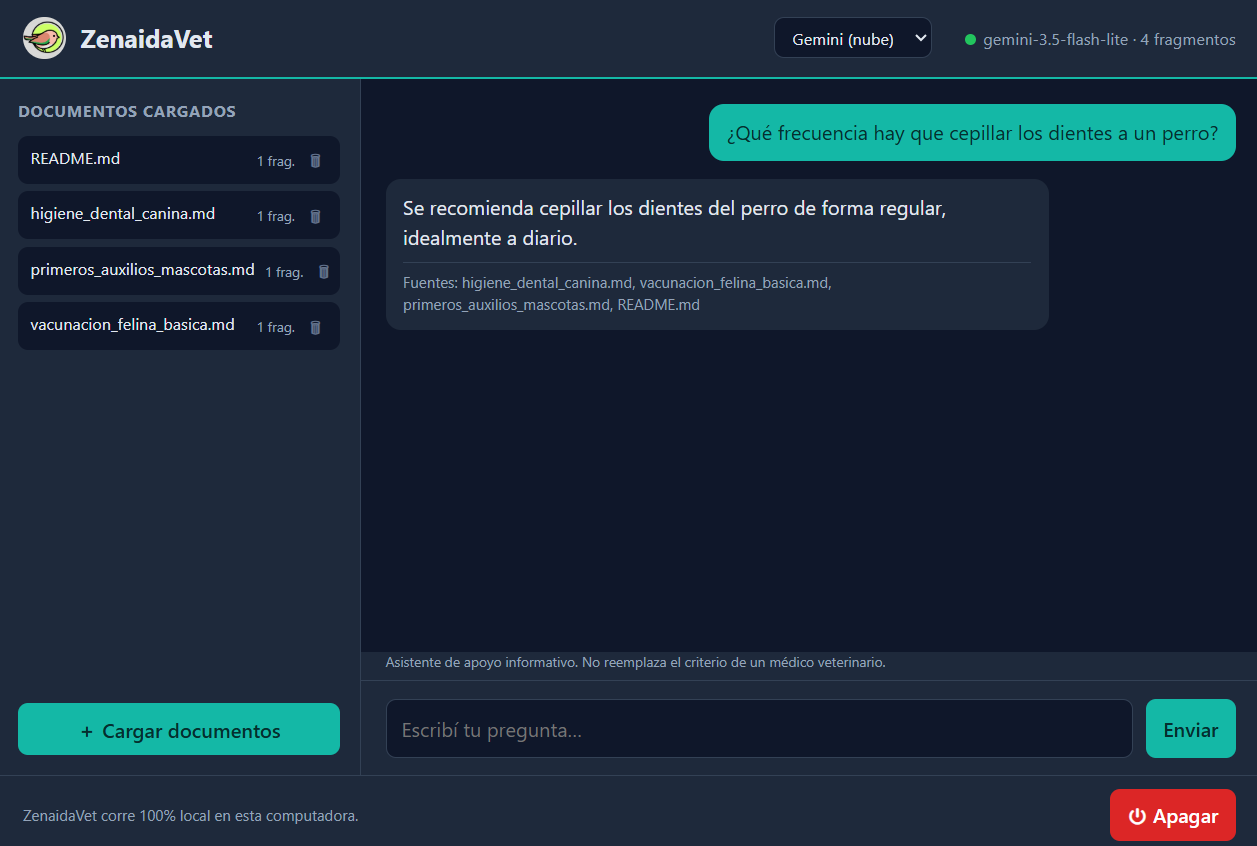
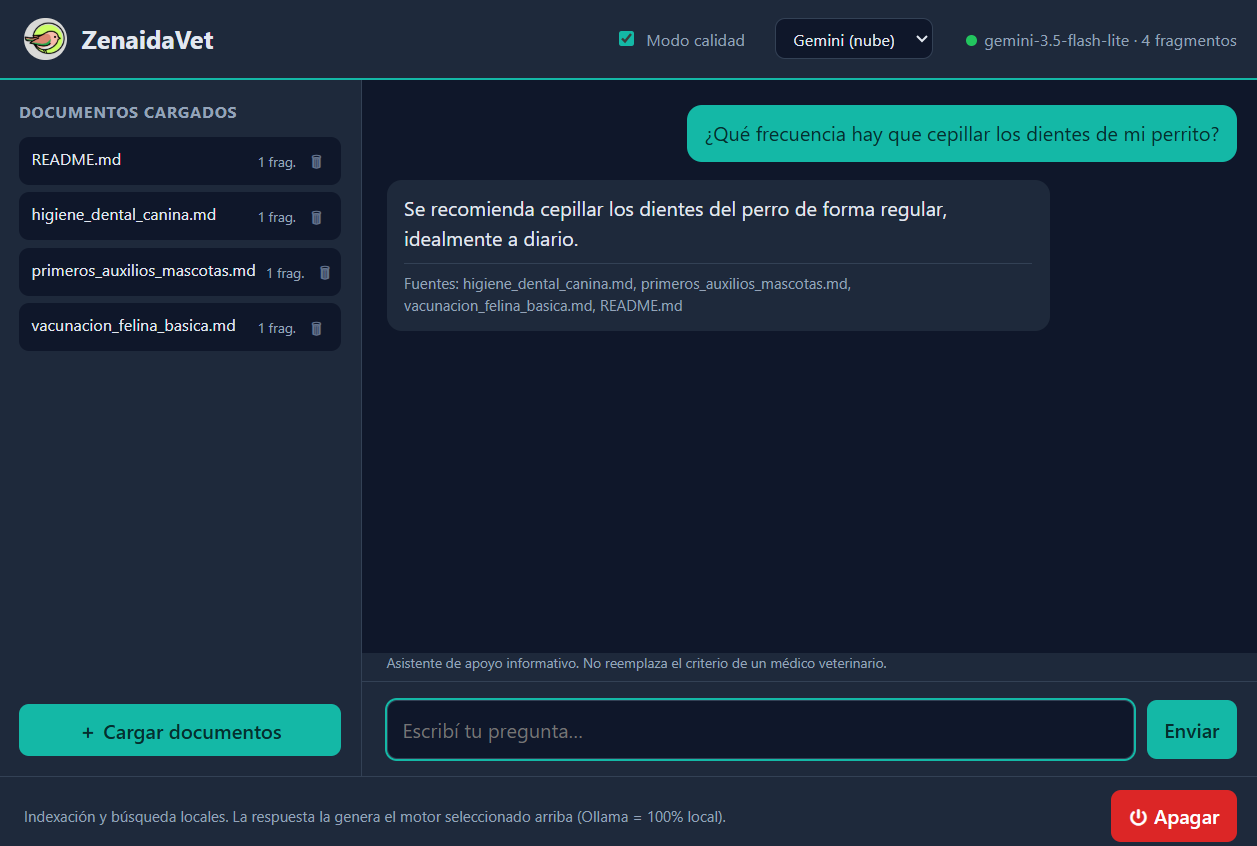
feat: precarga con indicador, modo calidad on/off, estado de reranking e icono de app
- Precarga de embeddings en 2do plano (health.ready) + banner 'Cargando'; chat deshabilitado hasta estar listo

- Toggle 'Modo calidad' (hibrido+reranking) en caliente via GET/POST /quality; estado off/loading/ready + aviso 'Reranking listo'

- Icono propio en barra de tareas (AppUserModelID); footer honesto; captura actualizada; README documenta controles y estado (fases 0-7)

diff --git a/zenaidarag/desktop.py b/zenaidarag/desktop.py
@@ -39,12 +39,35 @@ def _wait_healthy(url: str, timeout: float = 60.0) -> bool:
     return False
 
 
+def _set_windows_app_id() -> None:  # pragma: no cover — solo Windows / UI
+    """Registra un AppUserModelID propio en Windows.
+
+    Sin esto, la barra de tareas agrupa la app bajo Python y muestra el icono del
+    interprete (python.exe) en vez del icono de la ventana. Con un ID propio,
+    Windows la trata como una app aparte y usa nuestro icono (logo.ico).
+    """
+    import sys
+
+    if sys.platform != "win32":
+        return
+    try:
+        import ctypes
+
+        ctypes.windll.shell32.SetCurrentProcessExplicitAppUserModelID(
+            "ZenaidaVet.Desktop"
+        )
+    except Exception:  # noqa: BLE001, S110 — cosmetico; si falla, icono por defecto
+        pass
+
+
 def run_desktop(settings: Settings | None = None) -> None:  # pragma: no cover — UI/red
     """Levanta backend + ventana nativa. Bloquea hasta que se cierra la ventana."""
     import uvicorn
     import webview
 
     from zenaidarag.api import build_engine, create_app
+
+    _set_windows_app_id()
 
     settings = settings or get_settings()
     host = settings.api_host

diff --git a/zenaidarag/webui.py b/zenaidarag/webui.py
@@ -100,7 +100,7 @@ PAGE = """<!doctype html>
     </section>
   </main>
   <footer>
-    <span class="hint">ZenaidaVet corre 100% local en esta computadora.</span>
+    <span class="hint">Indexación y búsqueda locales. La respuesta la genera el motor seleccionado arriba (Ollama = 100% local).</span>
     <span class="spacer"></span>
     <button class="btn-danger" id="shutdownBtn">⏻ Apagar</button>
   </footer>

diff --git a/tests/test_webui_api.py b/tests/test_webui_api.py
@@ -169,7 +169,7 @@ def test_quality_off_by_default():
 
 def test_quality_toggle_on_and_off(monkeypatch):
     # Evita cargar el cross-encoder real (~450 MB) en el hilo de fondo.
-    import zenaidarag.factory as factory
+    from zenaidarag import factory
 
     monkeypatch.setattr(factory, "build_reranker", lambda s: "STUB")
     client, engine = _quality_client()
